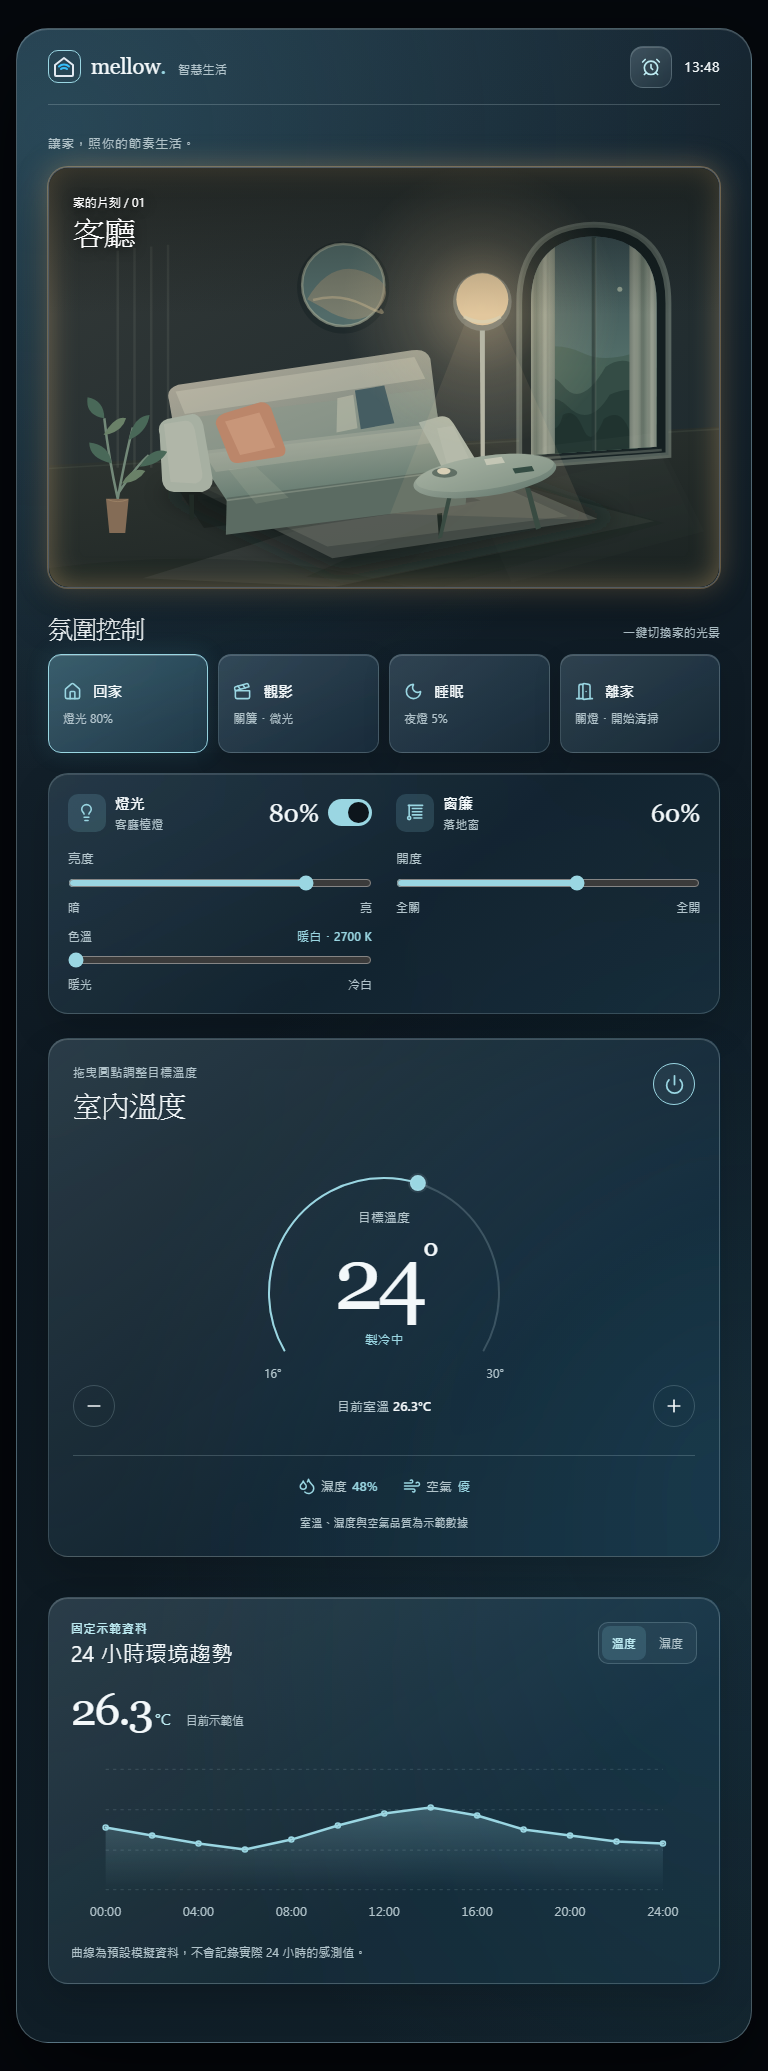
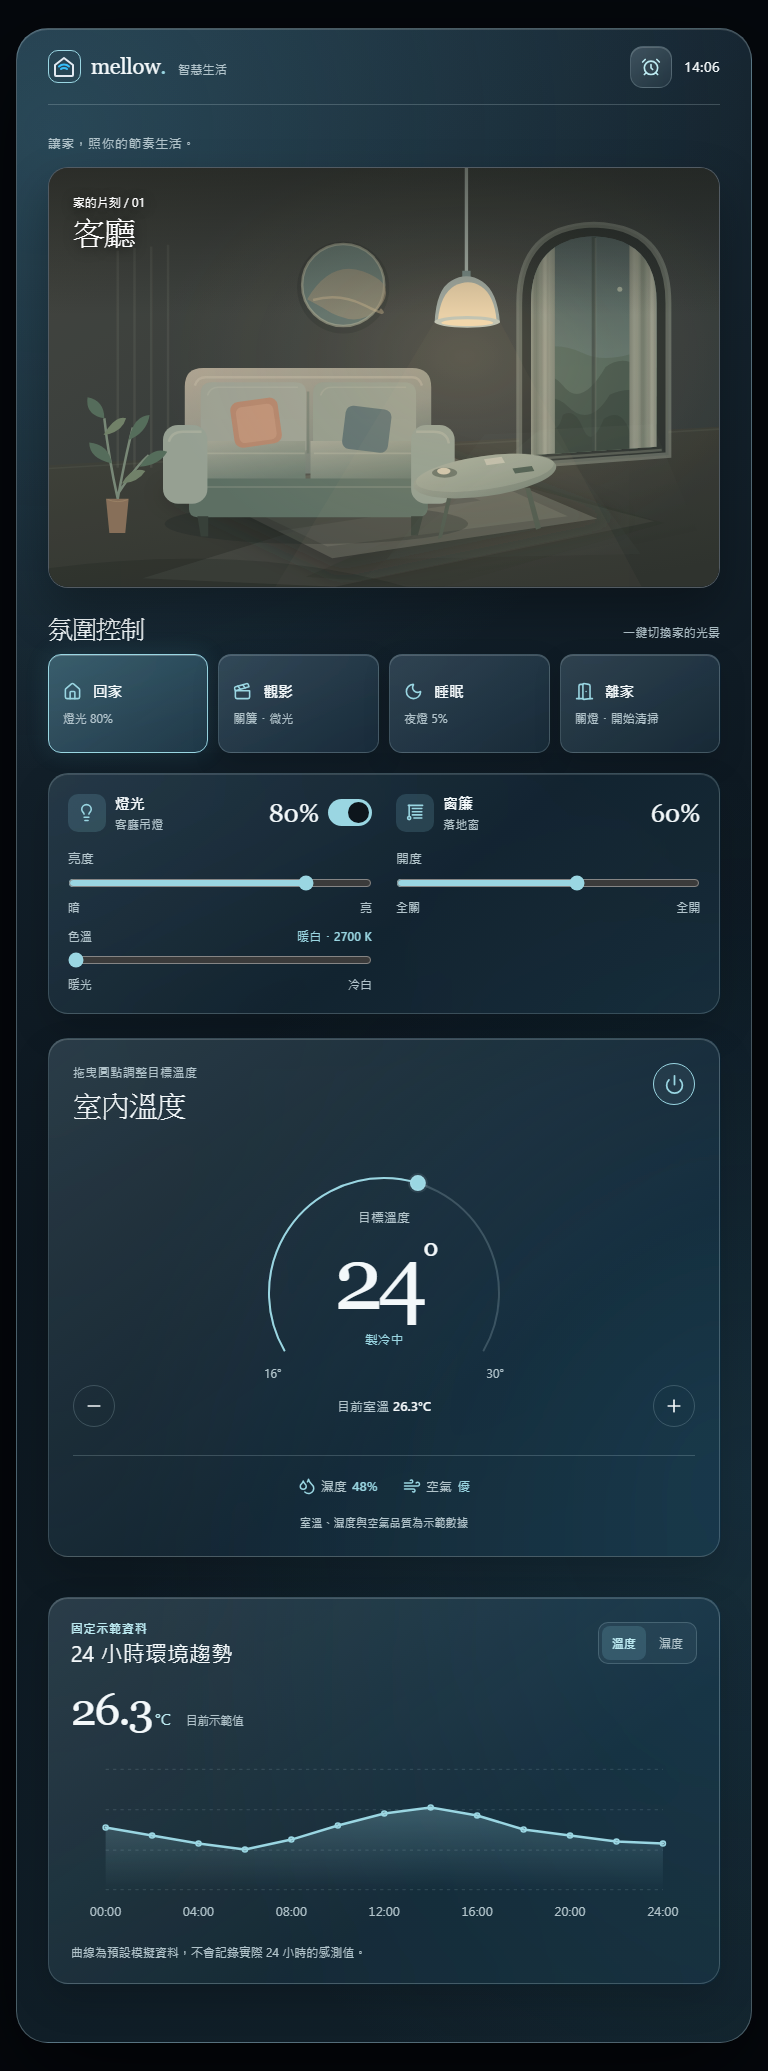
Illuminate whole room with pendant and refine sofa

Changed region(s): [[0.1875, 0.0618, 0.9062, 0.2781], [0.9375, 0.0927, 0.9688, 0.2781], [0.0312, 0.0927, 0.0625, 0.2781]]

diff --git a/src/components/LivingRoomScene.vue b/src/components/LivingRoomScene.vue
@@ -112,47 +112,31 @@ const lampColor = computed(() => {
       <path d="M572 348 731 337" stroke="#b7c2af" stroke-opacity=".28" stroke-width="3" />
     </g>
 
-    <g data-testid="moonlight-spill" :style="{ opacity: moonlight }">
-      <path d="M592 332 718 317 792 474 405 492Z" fill="url(#moon-beam)" />
-      <path d="M507 393 735 339 782 434 552 495Z" fill="#b6c9b8" opacity=".12" />
-    </g>
-
     <path d="M129 387 470 340 684 419 347 489Z" fill="#0e1614" opacity=".47" filter="url(#room-soft-shadow)" />
     <path d="M164 379 464 338 654 419 338 466Z" fill="#6c746b" opacity=".48" />
     <path d="M185 382 469 348 619 416 332 452Z" fill="#b9bbab" opacity=".15" />
     <path d="M183 396 434 366 515 397 270 434Z" fill="#151d1a" opacity=".21" />
 
     <g class="sofa-scene">
-      <path d="M143 367 452 328 503 389 185 430Z" fill="#111916" opacity=".45" />
-      <path d="M143 277Q139 264 154 259L433 218Q450 215 455 228L468 333 160 374Z" fill="url(#sofa-back)" />
-      <path d="M151 267 436 226 449 252 162 294Z" fill="#d7d3bf" opacity=".33" />
-      <path d="M163 299 457 264 472 334 178 374Z" fill="#89978b" opacity=".54" />
-      <path d="M176 343 458 310 502 359 212 397Z" fill="url(#sofa-seat)" />
-      <path d="M183 338 456 306 475 326 199 363Z" fill="#d0cdbc" opacity=".22" />
-      <path d="M212 394 501 357 497 402 211 438Z" fill="#5b6b62" />
-      <path d="M212 397 501 359" stroke="#d5d6c4" stroke-opacity=".25" stroke-width="2" />
-      <path d="M132 318Q128 305 141 300L171 294Q180 294 184 307L195 370Q197 383 183 387L149 387Q137 386 135 374Z" fill="#a7b0a2" />
-      <path d="M137 306 162 302Q171 301 174 313L183 365Q184 374 175 377L145 375Z" fill="#b9bcae" opacity=".52" />
-      <path d="M441 304 466 297Q477 295 483 306L510 350Q518 365 505 373L481 384 458 335Z" fill="#a7b1a4" />
-      <path d="M463 311 482 308 503 351Q509 360 499 365L480 373Z" fill="#c1c8b8" opacity=".3" />
-      <path d="M167 390 173 390 173 419 168 420ZM463 413 469 412 469 437 465 439Z" fill="#202a25" />
-      <path d="M209 293 252 280Q260 279 265 287L282 335Q283 344 275 345L228 352Q218 354 215 346L199 306Q198 298 209 293Z" fill="#bb866a" />
-      <path d="M210 303 251 292 270 334 228 343Z" fill="#e2b797" opacity=".34" />
-      <path d="M365 266 400 260 412 305 372 312Z" fill="#455d62" />
-      <path d="M344 275 363 271 368 311 343 316Z" fill="#d4d2bc" opacity=".4" />
-      <path d="M214 360 247 357 286 394 247 401Z" fill="#b8bba8" opacity=".17" />
-    </g>
-
-    <g data-testid="lamp-lit-room" :style="{ opacity: lampPower }">
-      <ellipse cx="516" cy="166" rx="167" ry="172" fill="url(#lamp-halo)" />
-      <path d="M498 181 538 181 643 420 407 413Z" :fill="lampColor" opacity=".11" />
-    </g>
-    <g class="floor-lamp">
-      <path d="M514 194 520 194 520 354 515 355Z" fill="#b6b6a5" />
-      <ellipse cx="519" cy="358" rx="26" ry="6" fill="#36453d" />
-      <circle cx="517" cy="160" r="35" fill="#9c9b8d" opacity=".56" />
-      <circle cx="517" cy="157" r="31" :fill="lampColor" :opacity="0.22 + lampPower * 0.68" />
-      <path d="M495 178Q517 190 539 178" stroke="#d7d2b5" stroke-opacity=".64" stroke-width="4" fill="none" />
+      <ellipse cx="319" cy="425" rx="181" ry="24" fill="#0b1617" opacity=".34" />
+      <path d="M162 261Q162 239 184 239H433Q456 239 456 262V365H162Z" fill="url(#sofa-back)" />
+      <path d="M174 260Q177 250 187 250H433Q442 250 445 260" stroke="#dfd6bd" stroke-opacity=".31" stroke-width="3" fill="none" />
+      <path d="M181 270Q181 256 194 256H294Q307 256 307 270V336Q304 345 294 345H194Q184 345 181 336Z" fill="#9da69a" />
+      <path d="M315 270Q315 256 328 256H424Q438 256 438 270V336Q435 345 424 345H328Q318 345 315 336Z" fill="#929f92" />
+      <path d="M189 272Q192 262 202 262H297M324 272Q327 262 337 262H426" stroke="#d6d3bf" stroke-opacity=".2" stroke-width="2" fill="none" />
+      <path d="M309 267V341" stroke="#576c62" stroke-opacity=".46" stroke-width="3" />
+      <path d="M174 336Q174 326 185 326H306V371Q302 378 293 379H185Q175 378 174 370Z" fill="url(#sofa-seat)" />
+      <path d="M312 326H436Q449 326 449 337V370Q447 378 437 379H324Q315 378 312 371Z" fill="url(#sofa-seat)" />
+      <path d="M183 341H305M316 341H439" stroke="#d2d2bb" stroke-opacity=".3" stroke-width="2" />
+      <path d="M167 371H452V407Q451 417 440 417H177Q167 417 167 407Z" fill="#526b62" />
+      <path d="M177 381H441" stroke="#c6cbb6" stroke-opacity=".26" stroke-width="2" />
+      <rect x="136" y="307" width="53" height="94" rx="18" fill="#96a69a" />
+      <rect x="432" y="307" width="52" height="94" rx="18" fill="#8fa196" />
+      <path d="M143 327Q146 315 160 315H182M438 315H459Q475 315 477 329" stroke="#d2d3bf" stroke-opacity=".32" stroke-width="3" fill="none" />
+      <path d="M177 416H190V440H181ZM432 416H446L440 439H432Z" fill="#24332f" />
+      <rect x="215" y="281" width="57" height="55" rx="10" transform="rotate(-8 215 281)" fill="#b9876d" />
+      <rect x="222" y="287" width="45" height="43" rx="7" transform="rotate(-8 222 287)" fill="#d9a88b" opacity=".4" />
+      <rect x="355" y="283" width="55" height="52" rx="9" transform="rotate(7 355 283)" fill="#526d71" />
     </g>
 
     <g class="coffee-table">
@@ -170,6 +154,25 @@ const lampColor = computed(() => {
       <path d="M82 395Q71 346 66 299M82 395Q91 345 100 310M83 388Q104 356 119 343" stroke="#738979" stroke-width="3" fill="none" />
       <path d="M66 299Q43 295 46 274Q66 278 66 299ZM75 353Q48 347 48 328Q71 330 75 353ZM95 325Q101 296 120 295Q117 316 95 325ZM108 357Q123 332 141 339Q132 355 108 357Z" fill="#496858" />
       <path d="M65 319Q79 295 92 299Q87 316 65 319ZM87 377Q99 355 115 362Q106 376 87 377Z" fill="#6a8168" />
+    </g>
+    <rect data-testid="room-night-shade" width="800" height="500" fill="#071016"
+      :style="{ opacity: Number(((1 - lampPower) * 0.34).toFixed(3)) }" />
+    <g data-testid="moonlight-spill" :style="{ opacity: moonlight }">
+      <path d="M585 313 720 306 795 484 370 494Z" fill="url(#moon-beam)" />
+      <path d="M520 318 598 315 706 461 403 467Z" fill="#a9c6c8" opacity=".15" />
+    </g>
+    <g data-testid="lamp-lit-room" :style="{ opacity: lampPower }">
+      <rect width="800" height="500" :fill="lampColor" opacity=".12" style="mix-blend-mode: screen" data-testid="room-light-wash" />
+      <ellipse cx="496" cy="225" rx="365" ry="262" fill="url(#lamp-halo)" opacity=".42" />
+      <path d="M460 184 538 184 707 500 270 500Z" :fill="lampColor" opacity=".045" />
+    </g>
+    <g class="pendant-lamp" data-testid="pendant-lamp">
+      <path d="M498 0V125" stroke="#a8b1a7" stroke-width="4" />
+      <path d="M493 123H503V133H493Z" fill="#788984" />
+      <path d="M460 185Q462 145 480 135Q499 124 517 136Q535 148 538 185Z" fill="#a2aaa0" />
+      <path d="M464 182Q467 151 484 141Q501 132 516 142Q531 152 534 182Z" :fill="lampColor" :opacity="0.14 + lampPower * 0.8" />
+      <ellipse cx="499" cy="184" rx="39" ry="7" fill="#c2c4b2" />
+      <ellipse cx="499" cy="185" rx="31" ry="4" :fill="lampColor" :opacity="0.17 + lampPower * 0.8" />
     </g>
     <path d="M0 478Q238 447 426 500H0Z" fill="#131d1a" opacity=".2" />
   </svg>

diff --git a/tests/dashboard.spec.ts b/tests/dashboard.spec.ts
@@ -21,6 +21,7 @@ test("首頁與鬧鐘操作沒有瀏覽器執行錯誤", async ({ page }) => {
   await expect(page.getByTestId("curtain-panel-left")).toHaveCount(1);
   await expect(page.getByTestId("arched-window")).toHaveCount(1);
   await expect(page.getByTestId("wall-art")).toHaveCount(1);
+  await expect(page.getByTestId("pendant-lamp")).toHaveCount(1);
   await page.getByRole("button", { name: "開啟鬧鐘與排程" }).click();
   await page.getByRole("button", { name: /早安排程時間 07:00/ }).click();
   await page.getByRole("button", { name: "取消" }).click();
@@ -98,7 +99,7 @@ test("燈光與窗簾滑桿會改變場景並保存", async ({ page }) => {
   await page.keyboard.press("Home");
   await expect(page.locator("#living-brightness")).toHaveValue("0");
   await expect(page.getByTestId("lamp-lit-room")).toHaveCSS("opacity", "0");
-  await expect(page.locator(".room-stage")).toHaveCSS("--stage-glow", "rgba(241, 196, 130, 0.000)");
+  await expect(page.getByTestId("room-night-shade")).toHaveCSS("opacity", "0.34");
   await page.locator("#living-color-temp").focus();
   await page.keyboard.press("End");
   await expect(page.locator("#living-color-temp")).toHaveValue("6500");
@@ -110,7 +111,9 @@ test("燈光與窗簾滑桿會改變場景並保存", async ({ page }) => {
   await page.locator("#living-brightness").focus();
   await page.keyboard.press("End");
   await expect(page.getByTestId("lamp-lit-room")).toHaveCSS("opacity", "1");
-  await expect(page.locator(".room-stage")).toHaveCSS("--stage-glow", "rgba(172, 222, 213, 0.440)");
+  await expect(page.getByTestId("room-night-shade")).toHaveCSS("opacity", "0");
+  await expect(page.getByTestId("room-light-wash")).toHaveAttribute("fill", "rgb(221 241 247)");
+  await expect(page.locator(".room-stage")).not.toHaveAttribute("style", /stage-glow/);
   await page.locator(".room-stage").screenshot({ path: "output/playwright/room-closed-lit-390.png" });
   await page.locator("#living-curtain-position").focus();
   await page.keyboard.press("End");
@@ -136,11 +139,11 @@ test("四個情境不跳通知，離家同步關燈與空調", async ({ page }) 
     await expect(page.locator(".toast")).toHaveCount(0);
   }
   await shortcuts.filter({ hasText: "離家" }).click();
-  await expect(page.getByRole("switch", { name: "檯燈電源" })).toHaveAttribute("aria-checked", "false");
+  await expect(page.getByRole("switch", { name: "吊燈電源" })).toHaveAttribute("aria-checked", "false");
   await expect(page.getByRole("button", { name: "開啟空調" })).toBeVisible();
   await expect(page.locator("#living-curtain-position")).toHaveValue("0");
   await shortcuts.filter({ hasText: "回家" }).click();
-  await expect(page.getByRole("switch", { name: "檯燈電源" })).toHaveAttribute("aria-checked", "true");
+  await expect(page.getByRole("switch", { name: "吊燈電源" })).toHaveAttribute("aria-checked", "true");
   await page.getByRole("button", { name: "提高目標溫度" }).click();
   await expect(page.getByRole("slider", { name: "目標溫度" })).toHaveAttribute(
     "aria-valuenow",
@@ -294,7 +297,7 @@ test("鬧鐘面板會保存排程時間與啟用狀態", async ({ page }) => {
   expect(await page.evaluate(() => document.body.style.overflow)).toBe("");
   await page.locator(".scene-presets button").filter({ hasText: "離家" }).click();
   await expect(
-    page.getByRole("switch", { name: "檯燈電源" }),
+    page.getByRole("switch", { name: "吊燈電源" }),
   ).toHaveAttribute("aria-checked", "false");
   await expect(page.locator(".toast")).toHaveCount(0);
 });

diff --git a/src/components/LivingRoomExperience.vue b/src/components/LivingRoomExperience.vue
@@ -15,13 +15,6 @@ const store = useHomeStore();
 const lamp = computed(() => store.state.lamp);
 const curtainPosition = computed(() => store.state.curtain.position);
 const brightness = computed(() => (lamp.value.on ? lamp.value.brightness : 0));
-const frameGlow = computed(() => {
-  const cool = (lamp.value.colorTemp - 2700) / 3800;
-  const red = Math.round(241 - 69 * cool);
-  const green = Math.round(196 + 26 * cool);
-  const blue = Math.round(130 + 83 * cool);
-  return `rgba(${red}, ${green}, ${blue}, ${(brightness.value / 100 * 0.44).toFixed(3)})`;
-});
 const sceneIcons = {
   home: House,
   movie: Clapperboard,
@@ -37,20 +30,20 @@ const warmthLabel = computed(() =>
 );
 const sceneLabel = computed(
   () =>
-    `客廳預覽：檯燈亮度 ${brightness.value}%，窗簾開度 ${curtainPosition.value}%。`,
+    `客廳預覽：吊燈亮度 ${brightness.value}%，窗簾開度 ${curtainPosition.value}%。`,
 );
 </script>
 
 <template>
   <section class="living-experience" aria-labelledby="living-title">
-    <div class="room-stage" :style="{ '--stage-glow': frameGlow }">
+    <div class="room-stage">
       <div class="stage-heading">
         <div>
           <span>家的片刻 / 01</span>
           <h1 id="living-title">客廳</h1>
         </div>
       </div>
-      <div class="scene-photo-frame" role="img" :aria-label="sceneLabel">
+      <div class="scene-art-frame" role="img" :aria-label="sceneLabel">
         <LivingRoomScene :brightness="brightness" :color-temp="lamp.colorTemp"
           :curtain-position="curtainPosition" />
       </div>
@@ -81,13 +74,13 @@ const sceneLabel = computed(
       <div id="light-control" class="room-control">
         <div class="room-control-heading">
           <span class="room-control-icon"><Lightbulb :size="19" /></span>
-          <div><strong>燈光</strong><small>客廳檯燈</small></div>
+          <div><strong>燈光</strong><small>客廳吊燈</small></div>
           <output for="living-brightness">{{ brightness }}%</output
           ><button
             class="switch"
             type="button"
             role="switch"
-            aria-label="檯燈電源"
+            aria-label="吊燈電源"
             :aria-checked="lamp.on"
             @click="store.setLamp({ on: !lamp.on })"
           >

diff --git a/src/styles/_living-room.scss b/src/styles/_living-room.scss
@@ -2,27 +2,15 @@
   min-width: 0;
 }
 .room-stage {
-  --stage-glow: rgba(241, 196, 130, 0);
   position: relative;
   aspect-ratio: 4 / 3;
   overflow: hidden;
   border-radius: 20px;
   background: #171b20;
   border: 1px solid rgba(220, 243, 255, 0.3);
-  box-shadow: 0 22px 48px rgba(0, 0, 0, 0.29), 0 0 0 1px var(--stage-glow), 0 0 30px var(--stage-glow), inset 0 1px rgba(255, 255, 255, 0.14);
-  transition: box-shadow 280ms ease;
+  box-shadow: 0 22px 48px rgba(0, 0, 0, 0.29), inset 0 1px rgba(255, 255, 255, 0.14);
 }
-.room-stage::before {
-  content: "";
-  position: absolute;
-  z-index: 1;
-  inset: 0;
-  border-radius: inherit;
-  box-shadow: inset 0 0 28px var(--stage-glow);
-  pointer-events: none;
-  transition: box-shadow 280ms ease;
-}
-.scene-photo-frame,
+.scene-art-frame,
 .living-room-illustration {
   position: absolute;
   inset: 0;
@@ -33,6 +21,7 @@
   display: block;
 }
 .living-room-illustration [data-testid="lamp-lit-room"],
+.living-room-illustration [data-testid="room-night-shade"],
 .living-room-illustration [data-testid="moonlight-spill"] {
   transition: opacity 300ms ease;
 }

diff --git a/README.md b/README.md
@@ -1,6 +1,6 @@
 # mellow. 智慧生活
 
-以 **Vue 3 + TypeScript** 製作的智慧家庭互動展示，專為手機與平板設計。使用者可以在同一個畫面查看夜晚客廳，調整檯燈、窗簾與目標溫度，切換生活氛圍，並透過鬧鐘面板設定早晚排程。
+以 **Vue 3 + TypeScript** 製作的智慧家庭互動展示，專為手機與平板設計。使用者可以在同一個畫面查看夜晚客廳，調整吊燈、窗簾與目標溫度，切換生活氛圍，並透過鬧鐘面板設定早晚排程。
 
 > 這是純前端 Demo：畫面與裝置狀態會即時連動，但不會控制真實家電。
 
@@ -36,8 +36,8 @@ npm run dev
 
 ### 客廳與裝置
 
-- **燈光**：使用開關控制檯燈；拖曳亮度滑桿可調整室內照明，色溫滑桿可在暖白與冷白間調整。客廳插畫的光線與畫框氛圍光會一起變化，關燈時畫框柔光也會熄滅。
-- **窗簾**：拖曳開度滑桿，右側窗戶的布簾會從中央向左右拉開。打開時有柔和月光進入客廳，檯燈關閉時仍可看清附近家具。
+- **燈光**：使用開關控制吊燈；拖曳亮度滑桿可調整整個客廳的明暗，色溫滑桿可在暖白與冷白間調整。燈光作用於房間內的牆面、家具與地面。
+- **窗簾**：拖曳開度滑桿，右側窗戶的布簾會從中央向左右拉開。打開時有柔和月光進入客廳，吊燈關閉時仍可看清附近家具。
 - **室內溫度**：拖曳圓形控制器、使用加減按鈕或鍵盤調整目標溫度，範圍為 16–30°C。畫面另外顯示模擬的目前室溫、濕度與空氣品質。
 - **環境趨勢**：可切換查看預設的 24 小時溫度或濕度曲線。
 
@@ -64,7 +64,7 @@ npm run dev
 
 - 燈光、窗簾、空調與排程設定儲存在目前瀏覽器的 `LocalStorage`；重新整理後保留。清除網站資料、使用另一個瀏覽器或無痕視窗時不會共用。
 - 目前室溫、濕度、空氣品質與 24 小時曲線是固定模擬資料，不是感測器讀值；調整目標溫度不會改變模擬室溫。
-- 客廳畫面是原創 SVG 插畫，檯燈、窗簾與月光依控制狀態改變；窗簾開合是畫面示意，並非即時 3D 模擬。
+- 客廳畫面是原創 SVG 插畫，吊燈、窗簾與月光依控制狀態改變；窗簾開合是畫面示意，並非即時 3D 模擬。
 - 排程依賴開啟中的網頁，關閉網頁後不會在背景執行，也不會發出手機系統鬧鈴或推播。
 - 專案沒有後端、帳號、雲端同步或真實 IoT 設備連線。
 
